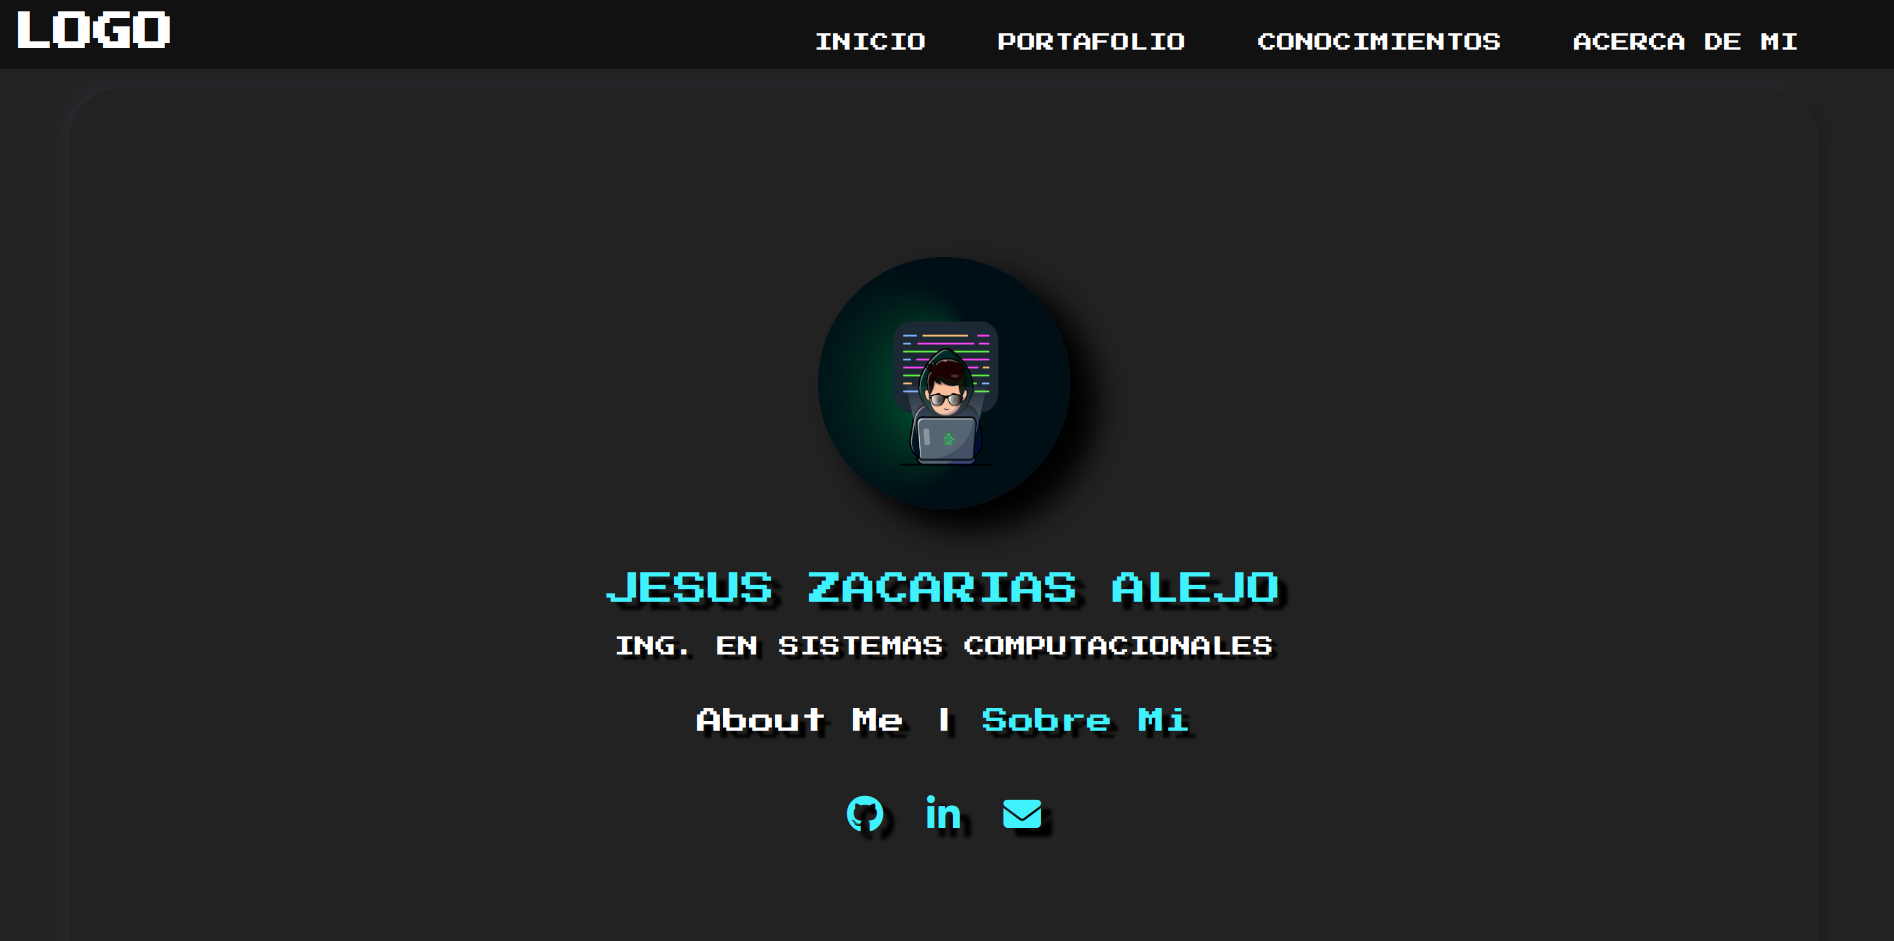
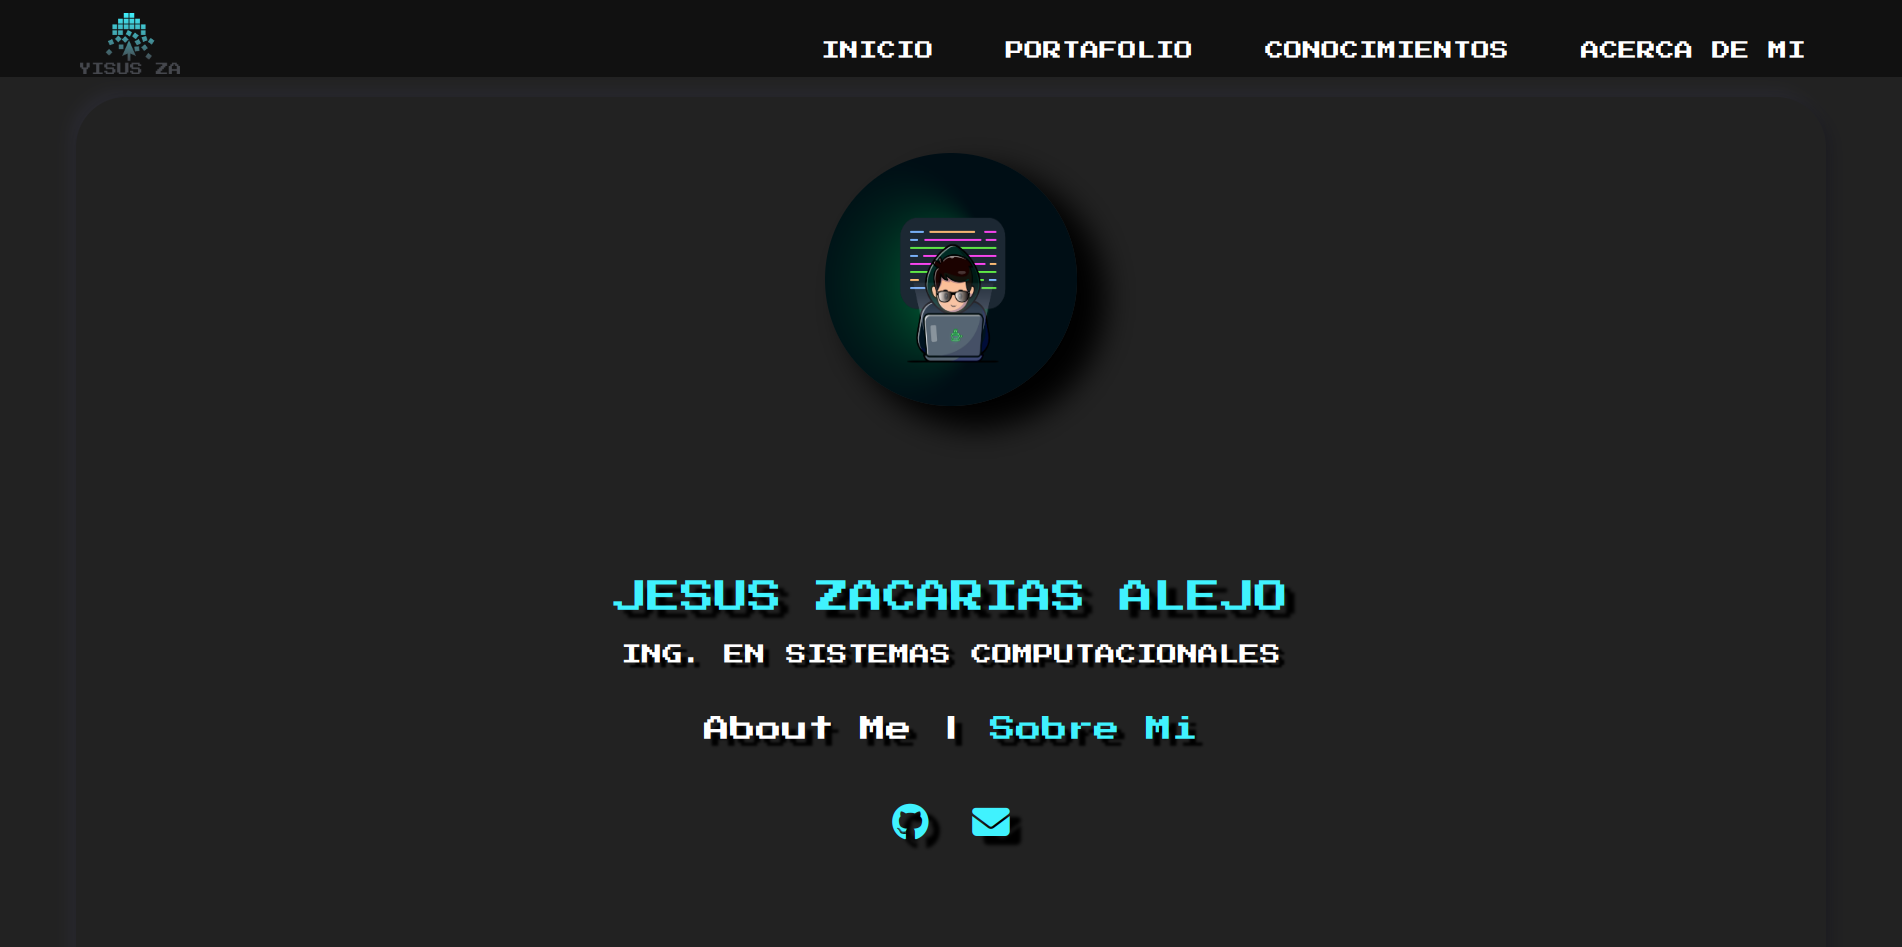
Version beta

diff --git a/index.html b/index.html
@@ -6,7 +6,7 @@
     <meta http-equiv='X-UA-Compatible' content='IE=edge'>
     <title>Yisus ZA</title>
     <meta name='viewport' content='width=device-width, initial-scale=1'>
-    <link rel="stylesheet" href="node_modules/eins-modal/dist/css/eins-modal-plain.min.css">
+    <link rel="shortcut icon" href="img/Yisus_logo.png">
     <link rel="stylesheet" type="text/css" media="screen" href="css/bootstrap.min.css">
     <link rel='stylesheet' type='text/css' media='screen' href='css/main.css'>
 </head>
@@ -15,7 +15,9 @@
 
     <header class="header">
         <nav class="nav">
-            <a class="nav-link logo" href="#">LOGO</a>
+            <a class="nav-link logo" href="#">
+                <img id="logoYisus" src="img/Yisus_logo.png" alt="">
+            </a>
             <button class="nav-toggle" aria-label="Abrir Menú">
                 <i class="fa-solid fa-bars"></i>
             </button>
@@ -41,8 +43,8 @@
                         Sobre
                         Mi</span></a></div>
                 <div class="contact-icon">
-                    <a href="#"><i class="fa-brands fa-github fa-2xl shadow-text"></i></a>
-                    <a href="#"><i class="fa-brands fa-linkedin-in fa-2xl shadow-text"></i></a>
+                    <a href="https://github.com/JesusZacarias"><i class="fa-brands fa-github fa-2xl shadow-text"></i></a>
+                    <!-- <a href="#"><i class="fa-brands fa-linkedin-in fa-2xl shadow-text"></i></a> -->
                     <a data-bs-toggle="modal" data-bs-target="#modalCorreo"><i
                             class="fa-solid fa-envelope fa-2xl shadow-text"></i></a>
                 </div>
@@ -66,21 +68,6 @@
                     <div>
                         <a>
                             <img src="./img/proyecto-produccion.webp" alt="img3">
-                        </a>
-                    </div>
-                    <div>
-                        <a>
-                            <img src="./img/proyecto-produccion.webp" alt="img4">
-                        </a>
-                    </div>
-                    <div>
-                        <a>
-                            <img src="./img/proyecto-produccion.webp" alt="img5">
-                        </a>
-                    </div>
-                    <div>
-                        <a>
-                            <img src="./img/proyecto-produccion.webp" alt="img6">
                         </a>
                     </div>
                 </div>
@@ -138,24 +125,29 @@
             <div class="title-about">
                 <h2 class="shadow-text"><span class="shadow-text">About Me |</span> Acerca de Mí</h2>
             </div>
-            <div class="about-flex ">
+            <div class="about-flex">
                 <div class="about-info">
-                    <p>Lorem ipsum dolor sit amet consectetur adipisicing elit. Quibusdam asperiores quod placeat nam
-                        eius
-                        veritatis distinctio blanditiis rem non, aliquam velit aperiam, numquam voluptates repellendus
-                        quis
-                        porro voluptas veniam facere!</p>
-                    <br>
-                    <p>Lorem ipsum dolor sit amet consectetur adipisicing elit. Repellendus harum veritatis, molestias,
-                        aut
-                        neque voluptas commodi soluta architecto exercitationem quibusdam modi earum sed repudiandae?
-                        Facilis repellat repellendus ab libero obcaecati!</p>
+                    <p>
+                        Ingeniero en Sistemas Computacionales graduado del 
+                        <a id ="itsp" href="https://its-purhepecha.edu.mx/" target="_blank"">Instituto Tecnológico Superior P´urhépecha</a>.
+                        <br>
+                        Actualmente me encuentro trabajando como Auxiliar de Sistemas en una empresa de Transportes de Autobuses, 
+                        en donde normalmente desempeño la tarea de dar mantenimiento preventivo y correctivo de equipo de cómputo e impresión, 
+                        instalación de cableado de red y cámaras de seguridad, instalación de barreras automáticas para estacionamientos.
+                    </p>
+                    <p>
+                        También me encargo de desarrollar algunas páginas web para diferentes terminales de autobuses 
+                        de los cuales siguen en etapas finales de desarrollo.
+                    </p>
+                    <p>
+                        Por otro lado soy un apasionado por la tecnología así como de los videojuegos, amante de la música y películas en particular de terror.
+                    </p>
                 </div>
                 <div class="social">
-                    <a href="#"><img src="./img/icons/github.png" alt="github-social"></a>
-                    <a href="#"><img src="./img/icons/linkedin.png" alt="linkedin-social"></a>
-                    <a href="#"><img src="./img/icons/youtube.png" alt="youtube-social"></a>
-                    <a data-modal-id="message"><img src="./img/icons/correo-electronico.png" alt="message-social"></a>
+                    <a href="https://github.com/JesusZacarias"><img src="./img/icons/github.png" alt="github-social"></a>
+                    <!-- <a href="#"><img src="./img/icons/linkedin.png" alt="linkedin-social"></a> -->
+                    <!-- <a href="#"><img src="./img/icons/youtube.png" alt="youtube-social"></a> -->
+                    <a data-bs-toggle="modal" data-bs-target="#modalCorreo"><img src="./img/icons/correo-electronico.png" alt="message-social"></a>
                 </div>
             </div>
         </section>
@@ -173,20 +165,23 @@
                     <div class="text-center">
                         <div class="row">
                             <div class="col-md-12 mx-auto">
-                                <div class="form-floating mb-5">
-                                    <input type="email" class="form-control" id="idCorreoTxt" placeholder="name@example.com">
-                                    <label id="idCorreLabel" for="idCorreoTxt">Correo Electronico</label>
-                                </div>
-                                <div class="form-floating mb-5">
-                                    <textarea class="form-control" placeholder="Escribe tu comentario..."
-                                        id="idCommenTxt"></textarea>
-                                    <label id="idCommenLabel" for="idCommenTxt">Comentario</label>
-                                </div>
-                                <div class="form-floating">
-                                    <button type="button" class="btn btn-outline-info">Enviar</button>
-                                </div>
+                                <form action="https://formspree.io/f/xvoygkno" method="POST">
+                                    <div class="form-floating mb-5">
+                                        <input type="email" name="email" class="form-control" id="idCorreoTxt"
+                                            placeholder="name@example.com">
+                                        <label id="idCorreLabel" for="idCorreoTxt">Correo Electronico</label>
+                                    </div>
+                                    <div class="form-floating mb-5">
+                                        <textarea name="message" class="form-control" placeholder="Escribe tu comentario..."
+                                            id="idCommenTxt"></textarea>
+                                        <label id="idCommenLabel" for="idCommenTxt">Comentario</label>
+                                    </div>
+                                    <!-- your other form fields go here -->
+                                    <div class="form-floating">
+                                        <button type="submit" class="btn btn-outline-info">Enviar</button>
+                                    </div>
+                                </form>
                             </div>
-                            
                         </div>
                     </div>
                 </div>
@@ -216,7 +211,7 @@
                                 </div>
 
                                 <div class="col-sm-6">
-                                    <h3>Tecnologias</h3>
+                                    <h4>Tecnologias Aplicadas</h4>
                                     <div class="tec-modal">
                                         <div>
                                             <img src="img/icons/html-5.png" alt="">
@@ -228,13 +223,10 @@
                                             <img src="img/icons/js.png" alt="">
                                         </div>
                                         <div>
-                                            <img src="img/icons/php.png" alt="">
-                                        </div>
-                                        <div>
                                             <img src="img/icons/git.png" alt="">
                                         </div>
                                         <div>
-                                            <img src="img/icons/servidor-sql.png" alt="">
+                                            <img src="img/icons/formspree.png" alt="">
                                         </div>
                                     </div>
                                 </div>

diff --git a/css/main.css b/css/main.css
@@ -71,7 +71,10 @@ p {
     display: none;
 }
 
-
+#logoYisus {
+    margin-left: 3rem;
+    max-width: 5rem;
+}
 
 .logo {
     font-size: 2rem;
@@ -134,7 +137,7 @@ p {
 }
 
 .profile-img {
-    top: 134px;
+    top: 45px;
     z-index: 4;
 }
 
@@ -307,18 +310,26 @@ section .skills {
     display: grid;
     grid-template-columns: repeat(auto-fit, minmax(200px, auto));
     grid-gap: 20px;
-    width: 90%;
+    width: 95%;
     margin: 0 auto;
     padding: 50px 0 100px;
 }
 
 .about p {
-    font-size: 1.5em;
-    width: 90%;
+    font-size: 1.4em;
+    width: 100%;
     margin: 0 auto;
     line-height: 2em;
     color: var(--secondary-light);
 
+}
+
+#itsp{
+    text-decoration: none;
+    color: var(--secondary-light);
+}
+#itsp:hover{
+    text-decoration: underline;
 }
 
 .social {
@@ -457,6 +468,11 @@ label {
 }
 
 @media screen and (max-width: 992px) {
+
+    #logoYisus {
+        margin-left: 1rem;
+        max-width: 5rem;
+    }
     .logo {
         padding: .5rem 0rem .5rem 1rem;
         font-size: 1.5rem;
@@ -526,18 +542,22 @@ label {
     }
 
     .about p {
-        font-size: 1em;
+        font-size: .8em;
     }
 
     .about {
-        padding: 0 1rem;
+        padding: 0 0rem;
     }
 
     .knowledge-part h2,
-    .tools-part h2,
-    .about-info h2 {
+    .tools-part h2{
         line-height: 2.2em;
         text-align: center;
+    }
+    
+    .about-info p {
+        line-height: 2.4em;
+        text-align: start;
     }
 
     .knowledge,
